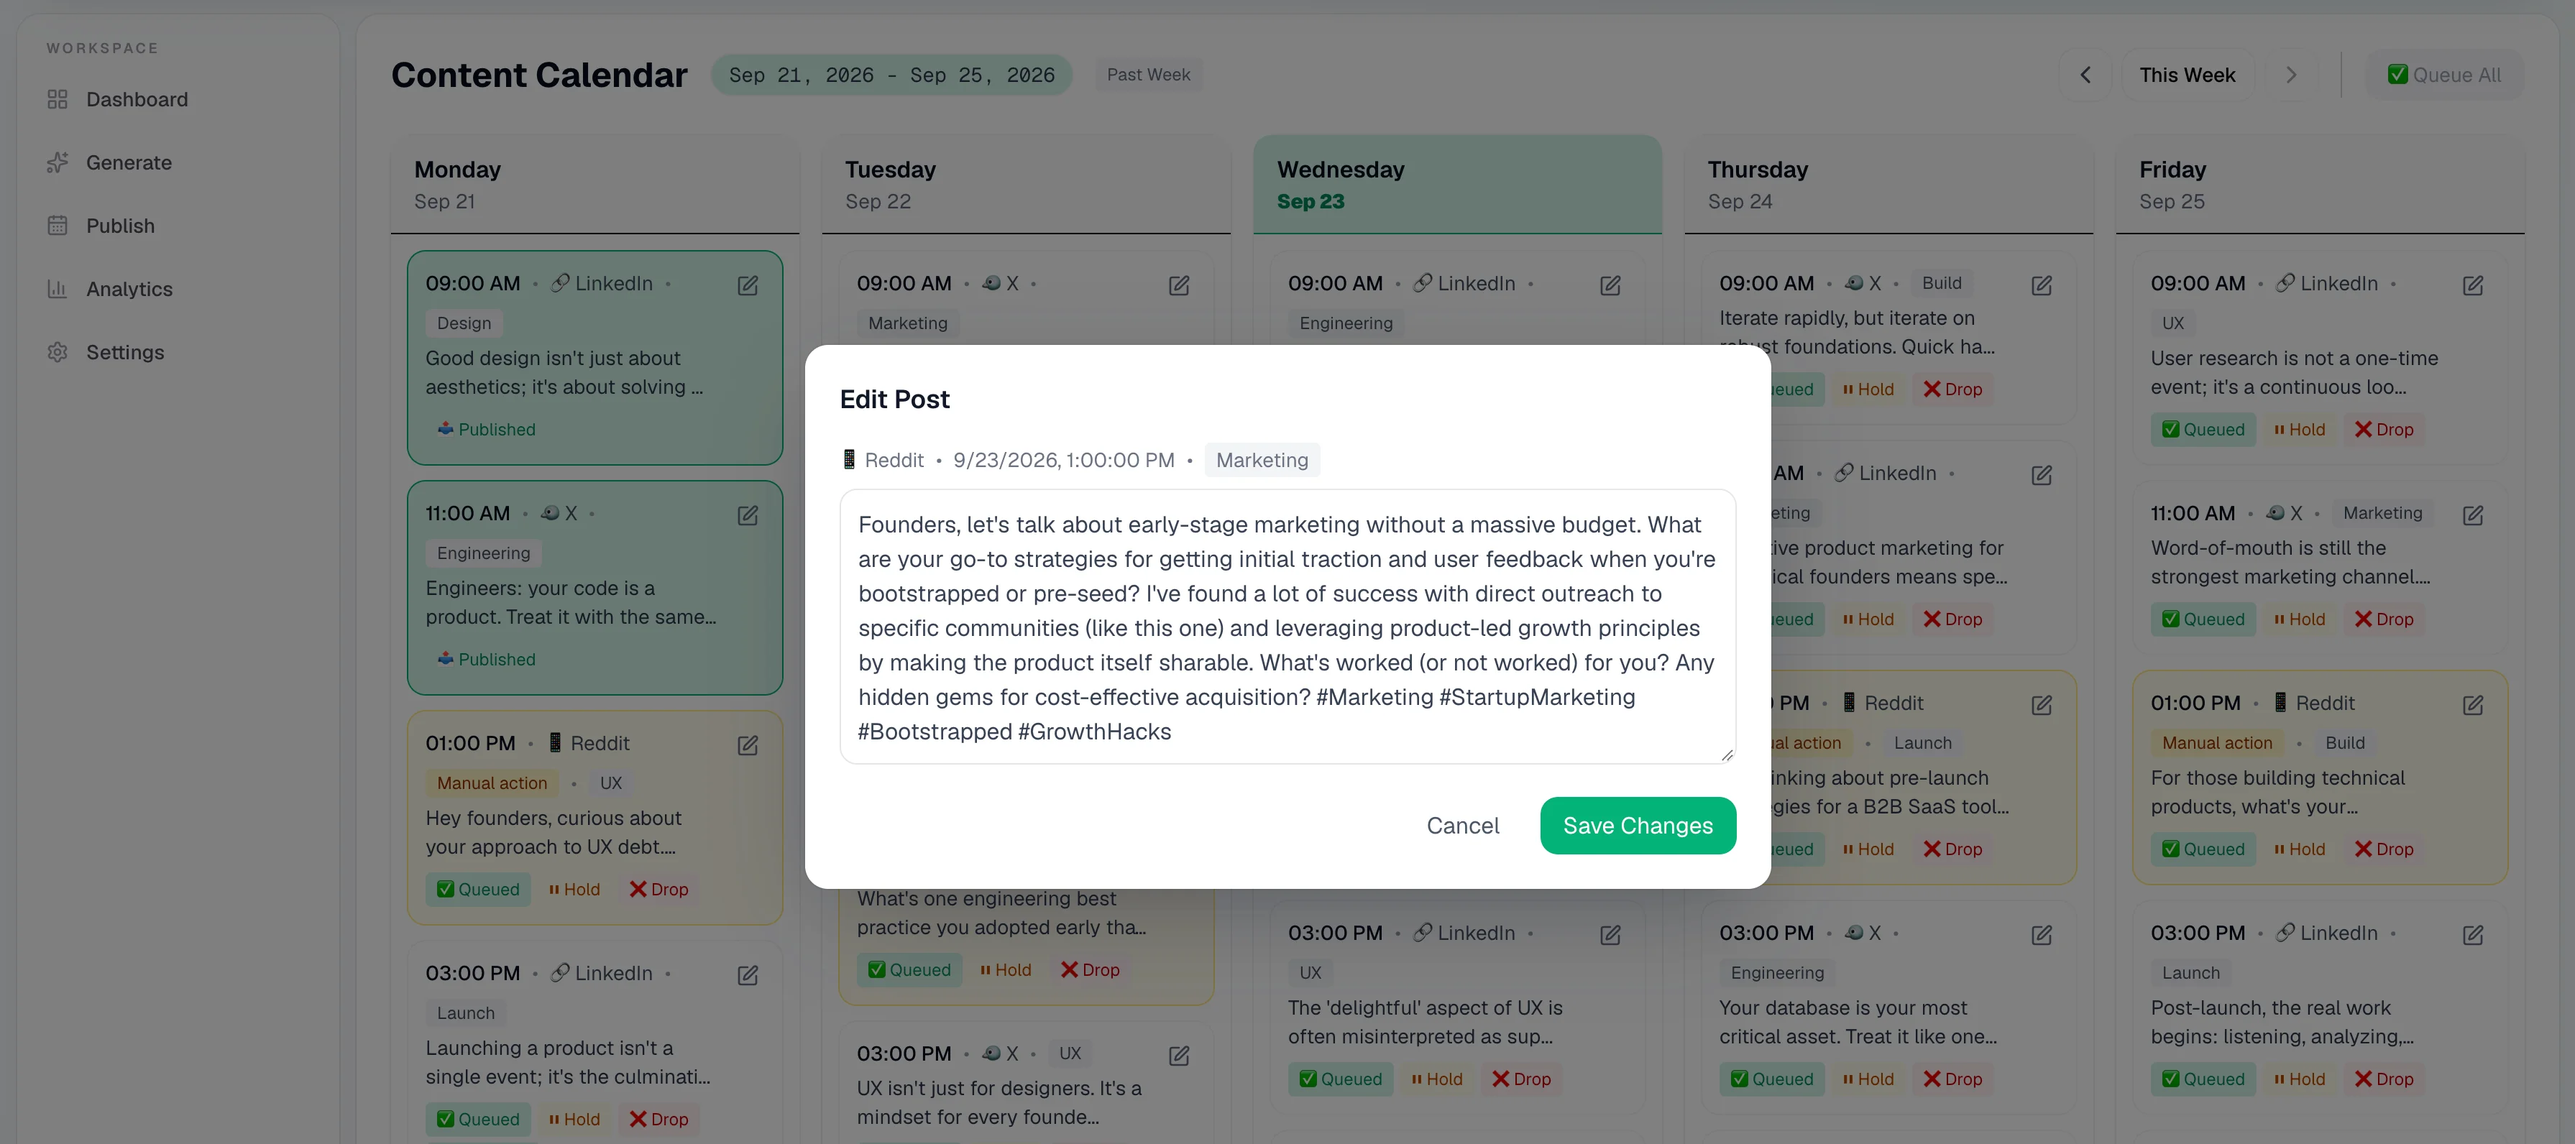
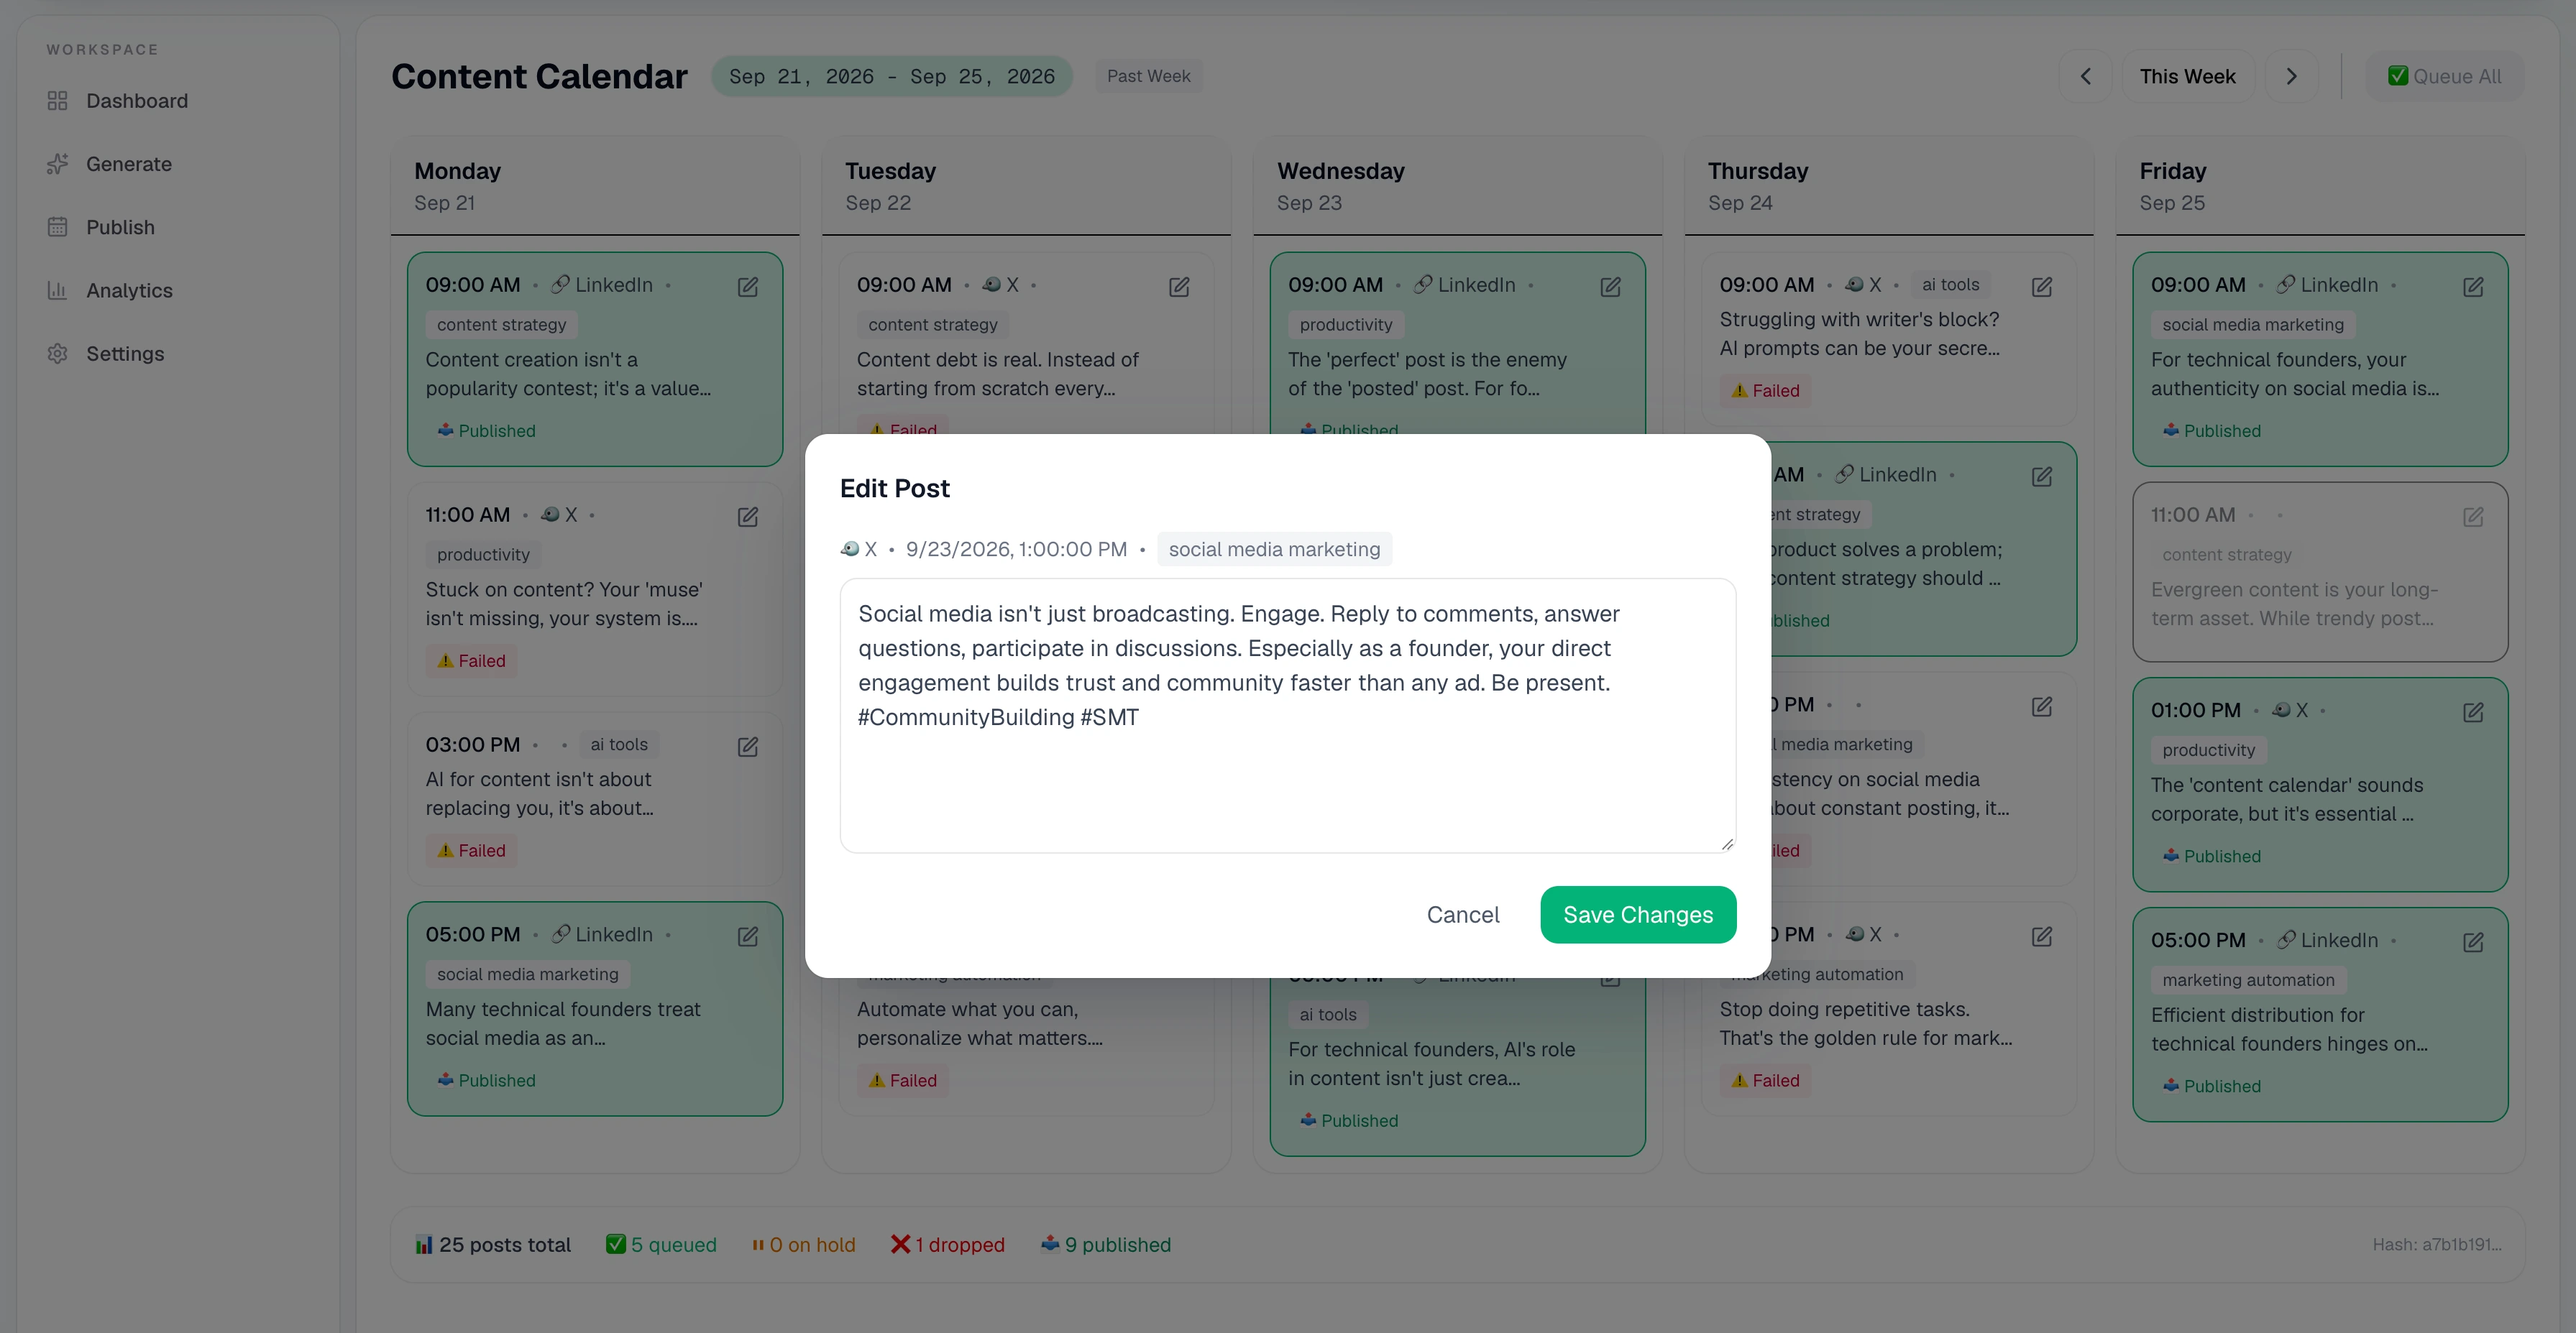
Refactor navigation and footer links for improved accessibility and clarity; update section IDs for better scrolling behavior; remove outdated calendar images.

diff --git a/components/Footer.tsx b/components/Footer.tsx
@@ -1,25 +1,25 @@
 import Image from "next/image";
 
 const productLinks = [
-  { label: 'How it works', href: '#features' },
-  { label: 'Calendar / Staging', href: '#features' },
-  { label: 'Channels', href: '#features' },
-  { label: 'Roadmap', href: '/pricing' },
+  { label: 'How it works', href: '/#how-it-works' },
+  { label: 'Calendar / Staging', href: '/#calendar' },
+  { label: 'Channels', href: '/#auto-sender' },
+  { label: 'Pricing', href: '/pricing' },
 ];
 
 
 const resources = [
-  { label: 'FAQ', href: '#faq' },
+  { label: 'FAQ', href: './#faq' },
   { label: 'Help & Support', href: '/help' },
-  { label: 'Changelog', href: '#features' },
-  { label: 'AEO Audit', href: '#features' },
+  { label: 'AEO Audit', href: '/#aeo-audit' },
+  { label: 'Security', href: '/security' },
 ];
 
 const companyLinks = [
   { label: 'About', href: '/about' },
   { label: 'Contact', href: '/contact' },
-  { label: 'Login', href: 'https://app.dispatchos.dev/login' },
-  { label: 'Pricing', href: '/pricing' },
+  { label: 'Privacy', href: '/privacy' },
+  { label: 'Terms', href: '/terms' },
 ];
 
 export default function Footer() {
@@ -35,13 +35,13 @@ export default function Footer() {
             <div className="flex flex-col gap-2 sm:flex-row sm:items-center">
               <a
                 href="https://app.dispatchos.com"
-                className="inline-flex items-center justify-center rounded-full bg-[#00b377] px-4 py-2 text-sm font-semibold text-gray-950 transition hover:bg-[#00c885]"
+                className="inline-flex items-center justify-center rounded-full bg-[#00b377] px-4 py-2 text-sm font-medium text-gray-950 transition hover:bg-[#00c885]"
               >
                 Generate my first week
               </a>
               <a
                 href="/pricing"
-                className="inline-flex items-center justify-center rounded-full border border-gray-300 bg-white px-4 py-2 text-sm font-semibold text-gray-900 transition hover:bg-gray-100"
+                className="inline-flex items-center justify-center rounded-full border border-gray-300 bg-white px-4 py-2 text-sm font-medium text-gray-900 transition hover:bg-gray-100"
               >
                 Pricing
               </a>
@@ -55,7 +55,7 @@ export default function Footer() {
             <ul className="mt-4 space-y-3 text-sm text-gray-900">
               {productLinks.map((link) => (
                 <li key={link.label}>
-                  <a href={link.href} className="hover:text-gray-950">{link.label}</a>
+                  <a href={link.href} className="font-medium hover:text-gray-950">{link.label}</a>
                 </li>
               ))}
             </ul>
@@ -66,7 +66,7 @@ export default function Footer() {
             <ul className="mt-4 space-y-3 text-sm text-gray-900">
               {resources.map((link) => (
                 <li key={link.label}>
-                  <a href={link.href} className="hover:text-gray-950">{link.label}</a>
+                  <a href={link.href} className="font-medium hover:text-gray-950">{link.label}</a>
                 </li>
               ))}
             </ul>
@@ -77,7 +77,7 @@ export default function Footer() {
             <ul className="mt-4 space-y-3 text-sm text-gray-900">
               {companyLinks.map((link) => (
                 <li key={link.label}>
-                  <a href={link.href} className="hover:text-gray-950">{link.label}</a>
+                  <a href={link.href} className="font-medium hover:text-gray-950">{link.label}</a>
                 </li>
               ))}
             </ul>
@@ -87,15 +87,12 @@ export default function Footer() {
         <div className="mt-12 flex flex-col gap-4 border-t border-gray-200 pt-6 sm:flex-row sm:items-center sm:justify-between">
           <div className="flex flex-wrap items-center gap-4 text-sm text-gray-600">
             <span>© 2026 DispatchOS</span>
-            <a href="/privacy" className="hover:text-gray-900">Privacy</a>
-            <a href="/terms" className="hover:text-gray-900">Terms</a>
-            <a href="/security" className="hover:text-gray-900">Security</a>
-            <a href="#" className="hover:text-gray-900">Status</a>
+            <a href="#" className="font-medium hover:text-gray-900">Status</a>
           </div>
 
           <div className="flex items-center gap-4 text-sm text-gray-600">
-            <a href="https://x.com" className="hover:text-gray-900">X</a>
-            <a href="https://linkedin.com" className="hover:text-gray-900">LinkedIn</a>
+            <a href="https://x.com" className="font-medium hover:text-gray-900">X</a>
+            <a href="https://linkedin.com" className="font-medium hover:text-gray-900">LinkedIn</a>
           </div>
         </div>
       </div>

diff --git a/components/Sections.tsx b/components/Sections.tsx
@@ -1,17 +1,18 @@
 import Image from 'next/image';
 
 const sections = [
-  { title: "Tell interesting stories!", description: "Zero blank-page syndrome. Get a full batch of channel-tailored posts built for technical builders and founders.", image: "/screenshots/ai-gen@2x.png" },
-  { title: "The Context Engine", description: "Drop in your website link, and our AI instantly maps your product description and ICP.", image: "/screenshots/context@2x.png" },
+  { id: 'content-generation', title: "Tell interesting stories!", description: "Zero blank-page syndrome. Get a full batch of channel-tailored posts built for technical builders and founders.", image: "/screenshots/ai-gen@2x.png" },
+  { id: 'context-engine', title: "The Context Engine", description: "Drop in your website link, and our AI instantly maps your product description and ICP.", image: "/screenshots/context@2x.png" },
   {
+    id: 'aeo-audit',
     title: "AEO Audit",
     description: "See exactly how AI interprets your brand with a live AEO audit that highlights the gaps before a single demo request.",
     image: "/screenshots/context.png",
     preview: "audit",
   },
-  { title: "The Calendar", description: "Total control. Tweak copy inline, swap media assets, or build custom posts from scratch with a frictionless UI.", image: "/screenshots/calendar-edit.webp" },
-  { title: "Hands-Free Auto-Sender", description: "Set it and forget it. Reliable, automated publishing across platforms so your distribution runs while you code.", image: "/screenshots/scheduler@2x.png" },
-  { title: "The Analytics Loop", description: "Real feedback loops to see what resonates and continuously sharpen your GTM motion.", image: "/screenshots/analytics@2x.png" },
+  { id: 'calendar', title: "The Calendar", description: "Total control. Tweak copy inline, swap media assets, or build custom posts from scratch with a frictionless UI.", image: "/screenshots/calendar-edit.webp" },
+  { id: 'auto-sender', title: "Hands-Free Auto-Sender", description: "Set it and forget it. Reliable, automated publishing across platforms so your distribution runs while you code.", image: "/screenshots/scheduler@2x.png" },
+  { id: 'analytics', title: "The Analytics Loop", description: "Real feedback loops to see what resonates and continuously sharpen your GTM motion.", image: "/screenshots/analytics@2x.png" },
 ];
 
 export default function SplitSections() {
@@ -21,11 +22,11 @@ export default function SplitSections() {
         {sections.map((section, idx) => {
           const isReversed = idx % 2 === 1;
           const isAeoRow = section.preview === 'audit';
-          const isCalendarRow = section.title === 'The Calendar';
+          const isCalendarRow = section.id === 'calendar';
 
           if (isCalendarRow) {
             return (
-              <div key={idx} className="mx-auto w-full max-w-6xl">
+              <div id={section.id} key={section.id} className="scroll-mt-24 mx-auto w-full max-w-6xl">
                 <div className="mx-auto max-w-3xl text-center">
                   <h3 className="text-[30px] font-extrabold leading-[1.05] tracking-tight sm:text-[36px] lg:text-5xl">{section.title}</h3>
                   <p className="mt-4 text-lg leading-relaxed text-gray-900">{section.description}</p>
@@ -46,8 +47,9 @@ export default function SplitSections() {
 
           return (
             <div
-              key={idx}
-              className={`grid items-center gap-8 lg:gap-16 ${isAeoRow ? 'lg:grid-cols-[1fr_1fr]' : isReversed ? 'lg:grid-cols-[1.5fr_1fr]' : 'lg:grid-cols-[1fr_1.5fr]'}`}
+              id={section.id}
+              key={section.id}
+              className={`scroll-mt-24 grid items-center gap-8 lg:gap-16 ${isAeoRow ? 'lg:grid-cols-[1fr_1fr]' : isReversed ? 'lg:grid-cols-[1.5fr_1fr]' : 'lg:grid-cols-[1fr_1.5fr]'}`}
             >
               {/* Text Column */}
               <div className={`space-y-4 ${isReversed ? 'lg:order-2' : 'lg:order-1'} ${isAeoRow ? 'lg:max-w-[75%]' : ''}`}>

diff --git a/components/TopNav.tsx b/components/TopNav.tsx
@@ -16,8 +16,8 @@ export default function TopNav() {
           </Link>
 
           <nav className="hidden items-center gap-6 md:flex">
-            <Link href="/#features" className="text-sm text-gray-600 hover:text-gray-900">Features</Link>
-            <Link href="/pricing" className="text-sm text-gray-600 hover:text-gray-900">Pricing</Link>
+            <Link href="/#how-it-works" className="text-sm font-medium text-gray-600 hover:text-gray-900">Features</Link>
+            <Link href="/pricing" className="text-sm font-medium text-gray-600 hover:text-gray-900">Pricing</Link>
           </nav>
 
           <div className="hidden items-center gap-4 md:flex">
@@ -39,8 +39,8 @@ export default function TopNav() {
 
         {menuOpen && (
           <nav id="mobile-menu" className="mt-4 flex flex-col gap-3 border-t border-gray-200 pb-2 pt-4 md:hidden">
-            <Link href="/#features" className="text-sm text-gray-600 hover:text-gray-900" onClick={() => setMenuOpen(false)}>Features</Link>
-            <Link href="/pricing" className="text-sm text-gray-600 hover:text-gray-900" onClick={() => setMenuOpen(false)}>Pricing</Link>
+            <Link href="/#how-it-works" className="text-sm font-medium text-gray-600 hover:text-gray-900" onClick={() => setMenuOpen(false)}>Features</Link>
+            <Link href="/pricing" className="text-sm font-medium text-gray-600 hover:text-gray-900" onClick={() => setMenuOpen(false)}>Pricing</Link>
             <a href="https://app.dispatchos.dev/login" className="inline-flex items-center justify-center rounded-full border border-[#00b377] bg-[#e6fff5] px-4 py-2 text-sm font-medium text-gray-900 transition hover:bg-[#d6fbea]" onClick={() => setMenuOpen(false)}>Sign in</a>
           </nav>
         )}

diff --git a/app/page.tsx b/app/page.tsx
@@ -189,7 +189,7 @@ export default function Hero() {
         </div>
       </section>
 
-      <section className="mx-auto max-w-6xl px-4 py-20 sm:px-6 sm:py-24 lg:px-8 lg:py-28">
+      <section id="how-it-works" className="scroll-mt-24 mx-auto max-w-6xl px-4 py-20 sm:px-6 sm:py-24 lg:px-8 lg:py-28">
         <div className="mx-auto max-w-4xl text-center">
           <span className="inline-flex rounded-full border border-[#8ae0c5] bg-[#eafef4] px-4 py-2 text-[11px] font-semibold uppercase tracking-[0.22em] text-[#0f9a6d]">
             WHERE THE POSTS COME FROM
